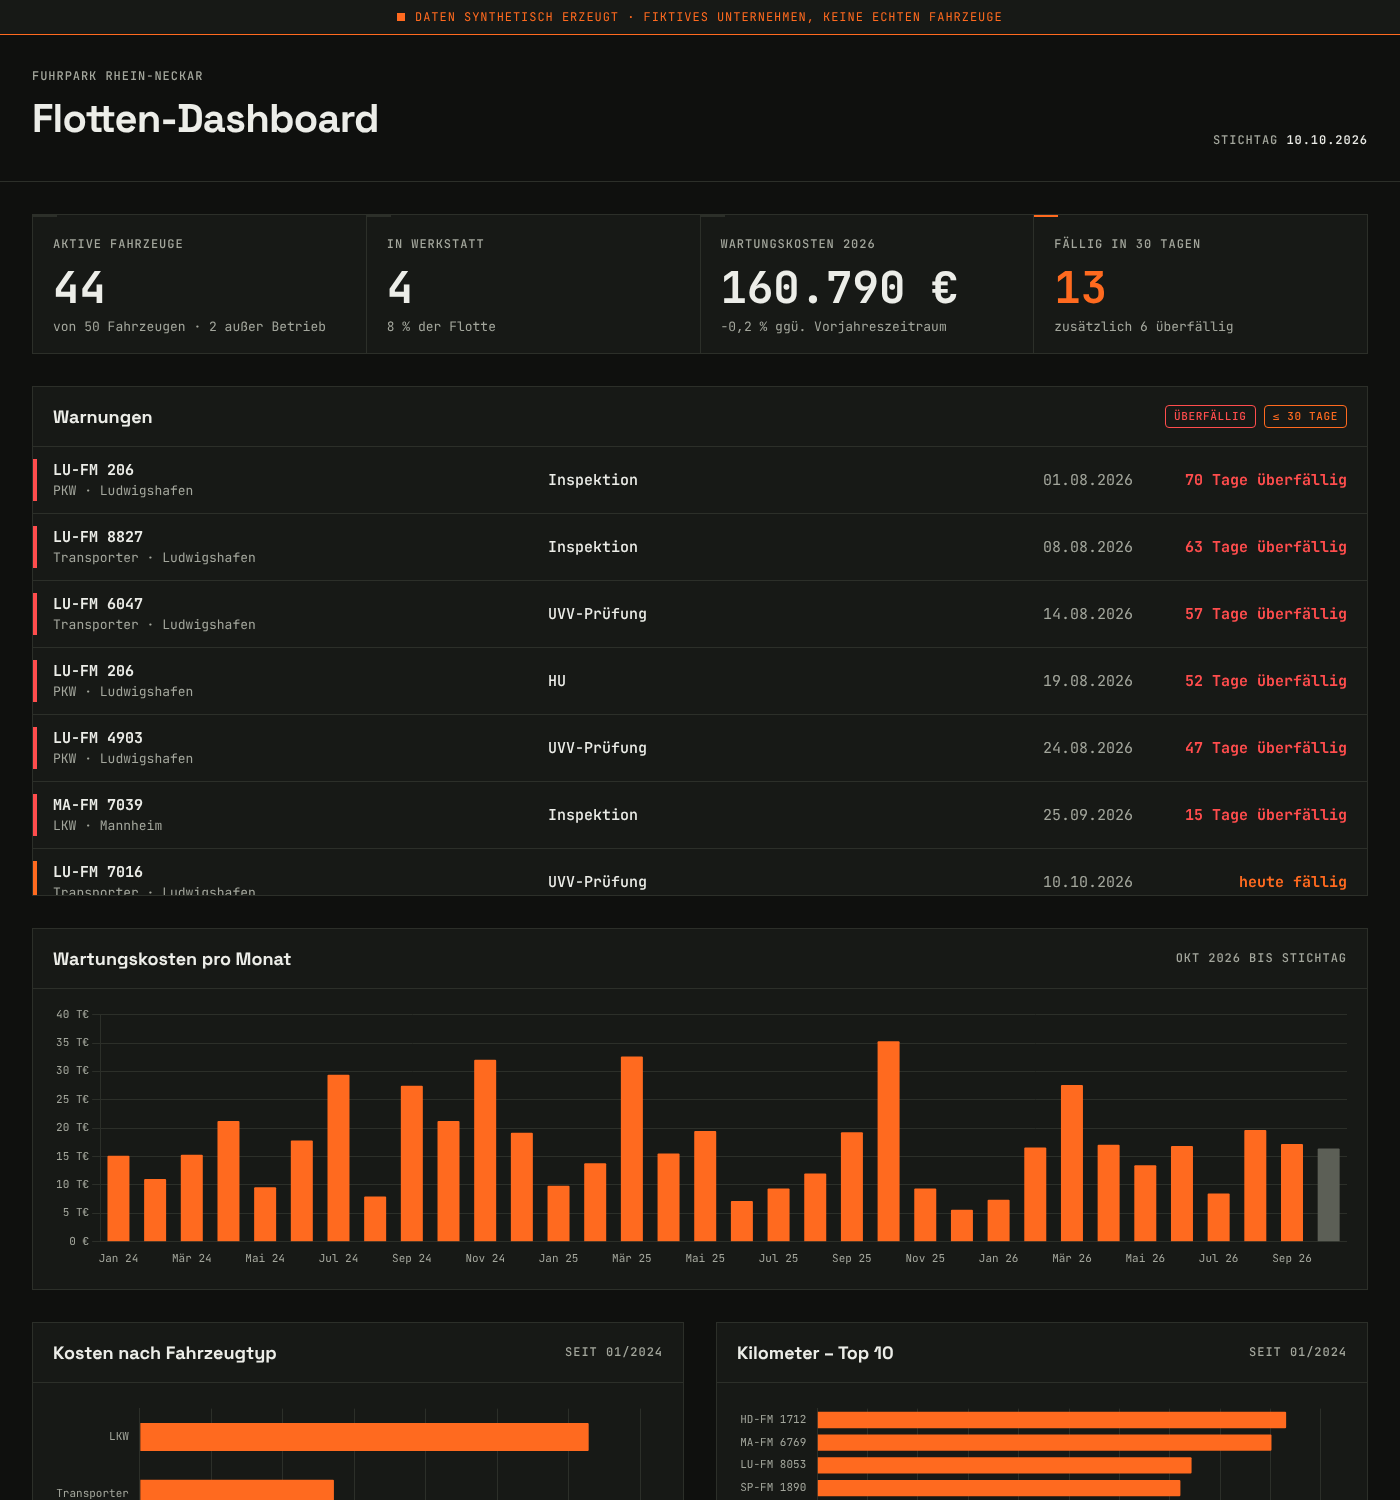
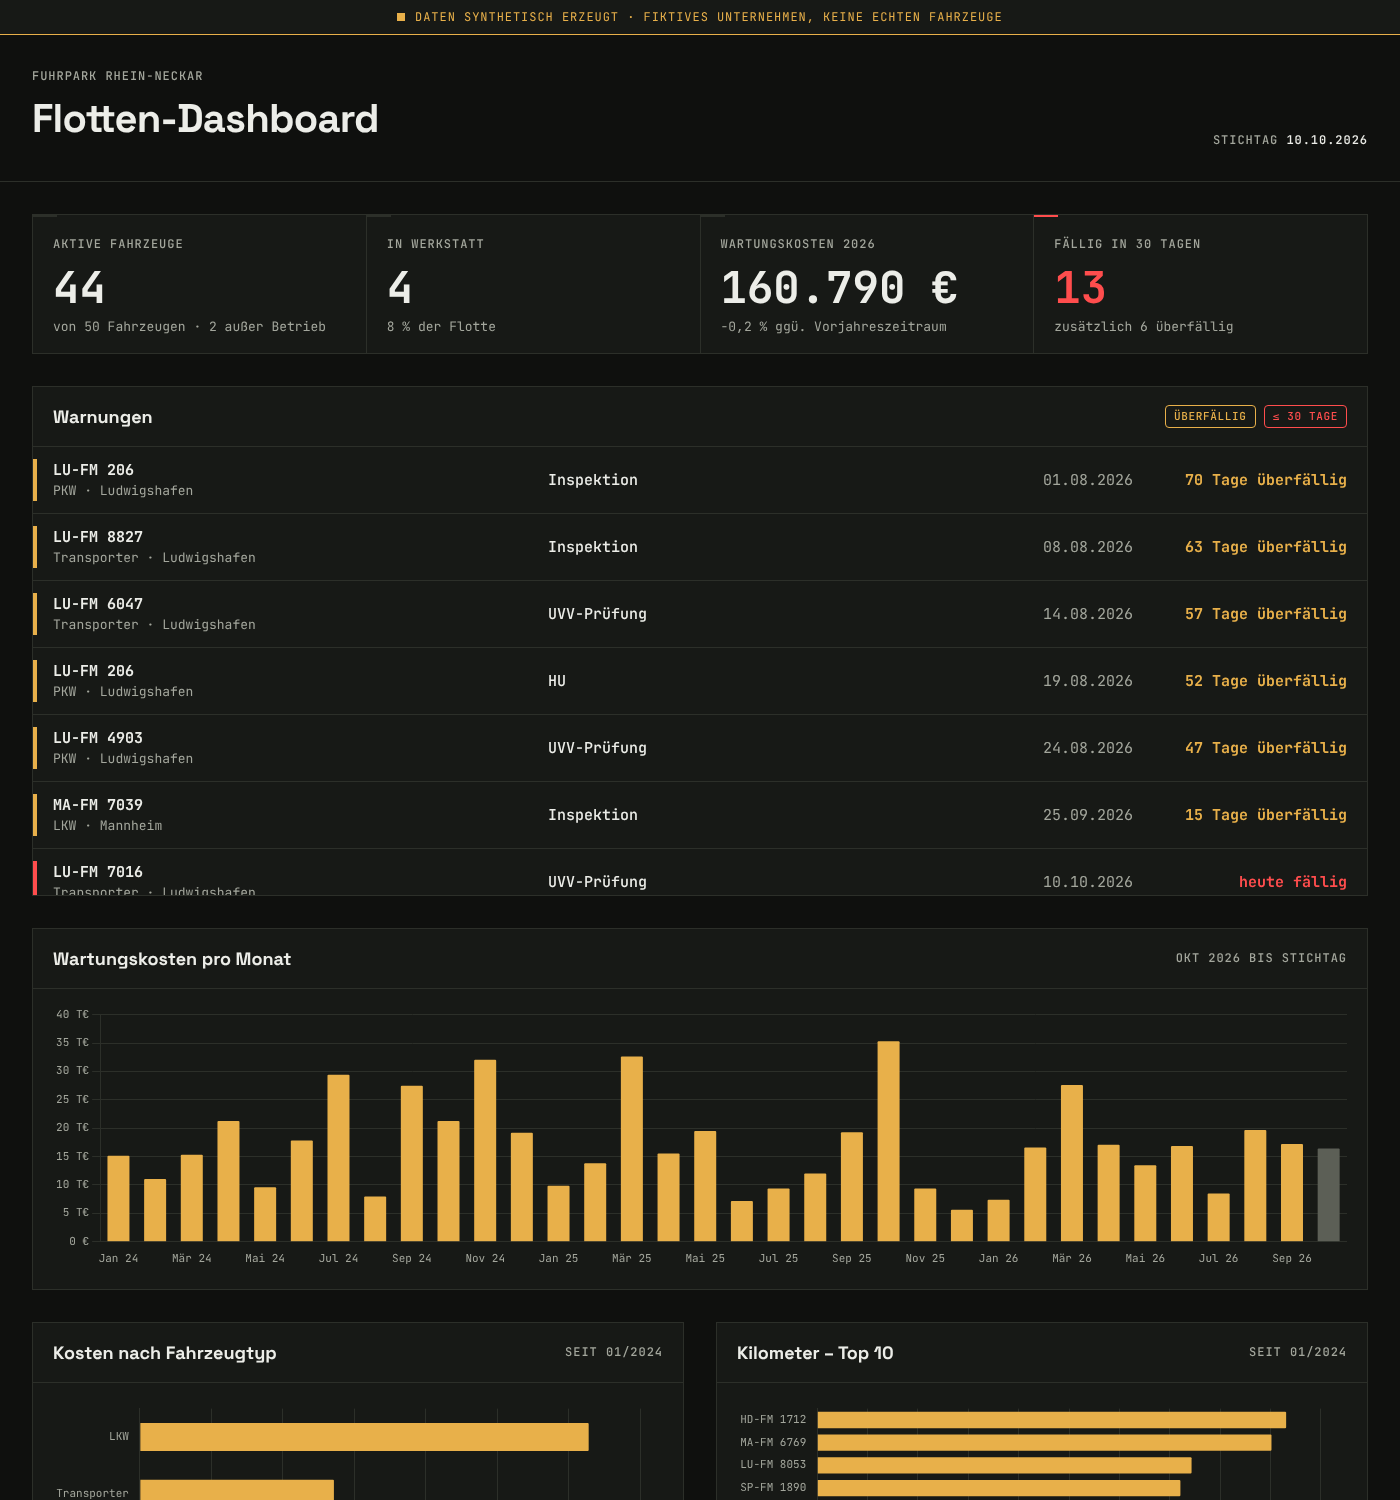
Farben: Bernstein als Akzent und für überfällige Termine, Rot für Fristen ≤ 30 Tage
Claude-Session: https://claude.ai/code/session_018bwkZLNFb8gRgcNRZoqDDV

diff --git a/style.css b/style.css
@@ -1,6 +1,6 @@
 /* ==========================================================================
    Flotten-Dashboard – Stil "Cockpit"
-   Eine Akzentfarbe (Signalorange), dunkler Hintergrund, Mono für Zahlen.
+   Eine Akzentfarbe (Bernstein), dunkler Hintergrund, Mono für Zahlen.
    ========================================================================== */
 
 :root {
@@ -10,8 +10,8 @@
   --linie: #2C2F29;
   --text: #ECEDE8;
   --text-gedaempft: #A3A69C;   /* Kontrast ≥ 7:1 auf --hintergrund */
-  --akzent: #FF6A1F;
-  --rot: #FF4D4D;              /* nur für überfällige Termine */
+  --akzent: #E8B04A;
+  --rot: #FF4D4D;              /* Termine in den nächsten 30 Tagen */
 
   --mono: "JetBrains Mono", ui-monospace, "Cascadia Mono", Consolas, monospace;
   --titel: "Space Grotesk", system-ui, sans-serif;
@@ -135,7 +135,7 @@ main {
   height: 2px;
   background: var(--linie);
 }
-.kachel-akzent::before { background: var(--akzent); }
+.kachel-akzent::before { background: var(--rot); }
 .wert {
   font-family: var(--mono);
   font-size: clamp(2rem, 4vw, 2.75rem);
@@ -144,7 +144,7 @@ main {
   margin: 0.6rem 0 0.4rem;
   font-variant-numeric: tabular-nums;
 }
-.kachel-akzent .wert { color: var(--akzent); }
+.kachel-akzent .wert { color: var(--rot); }
 .unter {
   margin: 0;
   font-size: 0.8125rem;
@@ -179,8 +179,8 @@ main {
   text-transform: uppercase;
   white-space: nowrap;
 }
-.badge-rot { color: var(--rot); }
-.badge-orange { color: var(--akzent); }
+.badge-rot { color: var(--akzent); }
+.badge-orange { color: var(--rot); }
 
 /* ---------- Warnungen ---------- */
 .alarme {
@@ -202,9 +202,9 @@ main {
 .alarm::before {                       /* farbiger Balken links */
   content: "";
   align-self: stretch;
-  background: var(--akzent);
+  background: var(--rot);
 }
-.alarm-rot::before { background: var(--rot); }
+.alarm-rot::before { background: var(--akzent); }
 
 .alarm-kennzeichen {
   font-weight: 700;
@@ -217,10 +217,10 @@ main {
   justify-self: end;
   font-variant-numeric: tabular-nums;
   font-weight: 700;
-  color: var(--akzent);
+  color: var(--rot);
   white-space: nowrap;
 }
-.alarm-rot .alarm-frist { color: var(--rot); }
+.alarm-rot .alarm-frist { color: var(--akzent); }
 
 .leer, .fehler {
   padding: 1.25rem;
@@ -384,8 +384,8 @@ input:hover, select:hover { border-color: var(--text-gedaempft); }
   padding: 0.55rem 0;
   border-bottom: 1px solid var(--linie);
 }
-.frist-rot { color: var(--rot); font-weight: 700; }
-.frist-orange { color: var(--akzent); font-weight: 700; }
+.frist-rot { color: var(--akzent); font-weight: 700; }
+.frist-orange { color: var(--rot); font-weight: 700; }
 .tabelle-kompakt tbody tr { cursor: default; }
 
 .sr-only {

diff --git a/README.md b/README.md
@@ -20,7 +20,7 @@ Das Projekt ist Teil meines Portfolios. Es zeigt den vollständigen Weg von den 
 | Bereich | Inhalt |
 |---|---|
 | Kennzahlen | Aktive Fahrzeuge, Fahrzeuge in der Werkstatt, Wartungskosten des laufenden Jahres (mit Vorjahresvergleich), Termine in den nächsten 30 Tagen |
-| Warnungen | Überfällige Termine (rot) und Termine in den nächsten 30 Tagen (orange), nach Dringlichkeit sortiert |
+| Warnungen | Überfällige Termine (bernstein) und Termine in den nächsten 30 Tagen (rot), nach Dringlichkeit sortiert |
 | Diagramme | Wartungskosten pro Monat, Kosten nach Fahrzeugtyp, Top 10 der Fahrzeuge nach Kilometern |
 | Fahrzeugtabelle | Volltextsuche, Filter nach Typ, Status und Standort, Sortierung per Klick auf die Spaltenköpfe |
 | Detailansicht | Stammdaten, offene Termine und Wartungshistorie eines Fahrzeugs |
